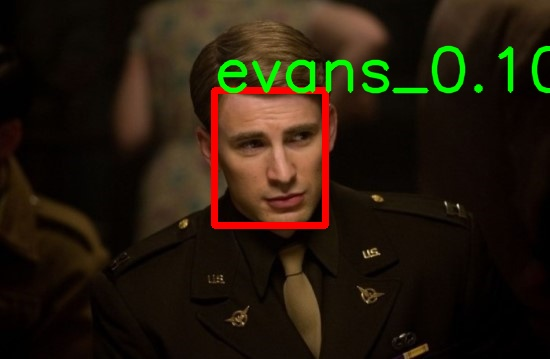
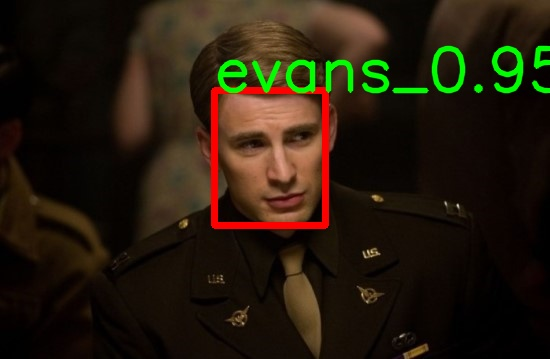
change the logic of face recognition

Changed region(s): [[0.8964, 0.1226, 1.0, 0.2758]]

diff --git a/face_recognition.py b/face_recognition.py
@@ -1,0 +1,39 @@
+from torchvision import transforms as trans
+import numpy as np
+from numpy.linalg import norm
+from model import l2_norm
+from torch.nn.functional import cosine_similarity
+import torch
+
+def face_compare(conf, model, faces, target_embs, tta=False):
+    embs = []
+    results = []
+    scores = []
+    for img in faces:
+        if tta:
+            mirror = trans.functional.hflip(img)
+            emb = model(conf.test_transform(img).to(conf.device).unsqueeze(0))
+            emb_mirror = model(conf.test_transform(mirror).to(conf.device).unsqueeze(0))
+            embs.append(l2_norm(emb + emb_mirror))
+        else:
+            embs.append(model(conf.test_transform(img).to(conf.device).unsqueeze(0)))
+    for em in embs:
+        result, score = check_features(em, target_embs)
+        results.append(result)
+        scores.append(score)
+    
+    return results, score
+    
+def cos_sim(A, B):
+    return np.dot(A, B) / (norm(A) * norm(B))
+
+
+def check_features(emb, target_embs):
+    max_idx = 0
+    max_sim = 0
+    for i in range(target_embs.shape[0]):
+        sim = cosine_similarity(emb, target_embs[i].unsqueeze(0))
+        if(sim>max_sim):
+            max_idx = i
+            max_sim = sim
+    return max_idx, max_sim

diff --git a/test.py b/test.py
@@ -9,6 +9,7 @@ from mtcnn import MTCNN
 from Learner import face_learner
 from utils import load_facebank, draw_box_name, prepare_facebank
 import sys
+from face_recognition import face_compare
 
 if __name__ == '__main__':
     parser = argparse.ArgumentParser(description='for face verification')
@@ -54,12 +55,11 @@ if __name__ == '__main__':
         try:
 #                 image = Image.fromarray(frame[...,::-1]) #bgr to rgb
             image = Image.fromarray(img[i])
-            print(i)
             bboxes, faces = mtcnn.align_multi(image, conf.face_limit, conf.min_face_size)
             bboxes = bboxes[:,:-1] #shape:[10,4],only keep 10 highest possibiity faces
             bboxes = bboxes.astype(int)
             bboxes = bboxes + [-1,-1,1,1] # personal choice    
-            results, score = learner.infer(conf, faces, targets, args.tta)
+            results, score = face_compare(conf, learner.model, faces, targets, args.tta)
             num_face = len(results) #len(results)가 얼굴개수가나오므로 num_face라는 변수 서연이 만듬. 
             print(num_face)
             for idx,bbox in enumerate(bboxes):

diff --git a/Learner.py b/Learner.py
@@ -245,6 +245,9 @@ class face_learner(object):
                 embs.append(self.model(conf.test_transform(img).to(conf.device).unsqueeze(0)))
         source_embs = torch.cat(embs)
         
+        #print(embs[0].shape)
+        print(target_embs.shape)
+        
         diff = source_embs.unsqueeze(-1) - target_embs.transpose(1,0).unsqueeze(0)
         dist = torch.sum(torch.pow(diff, 2), dim=1)
         minimum, min_idx = torch.min(dist, dim=1)
